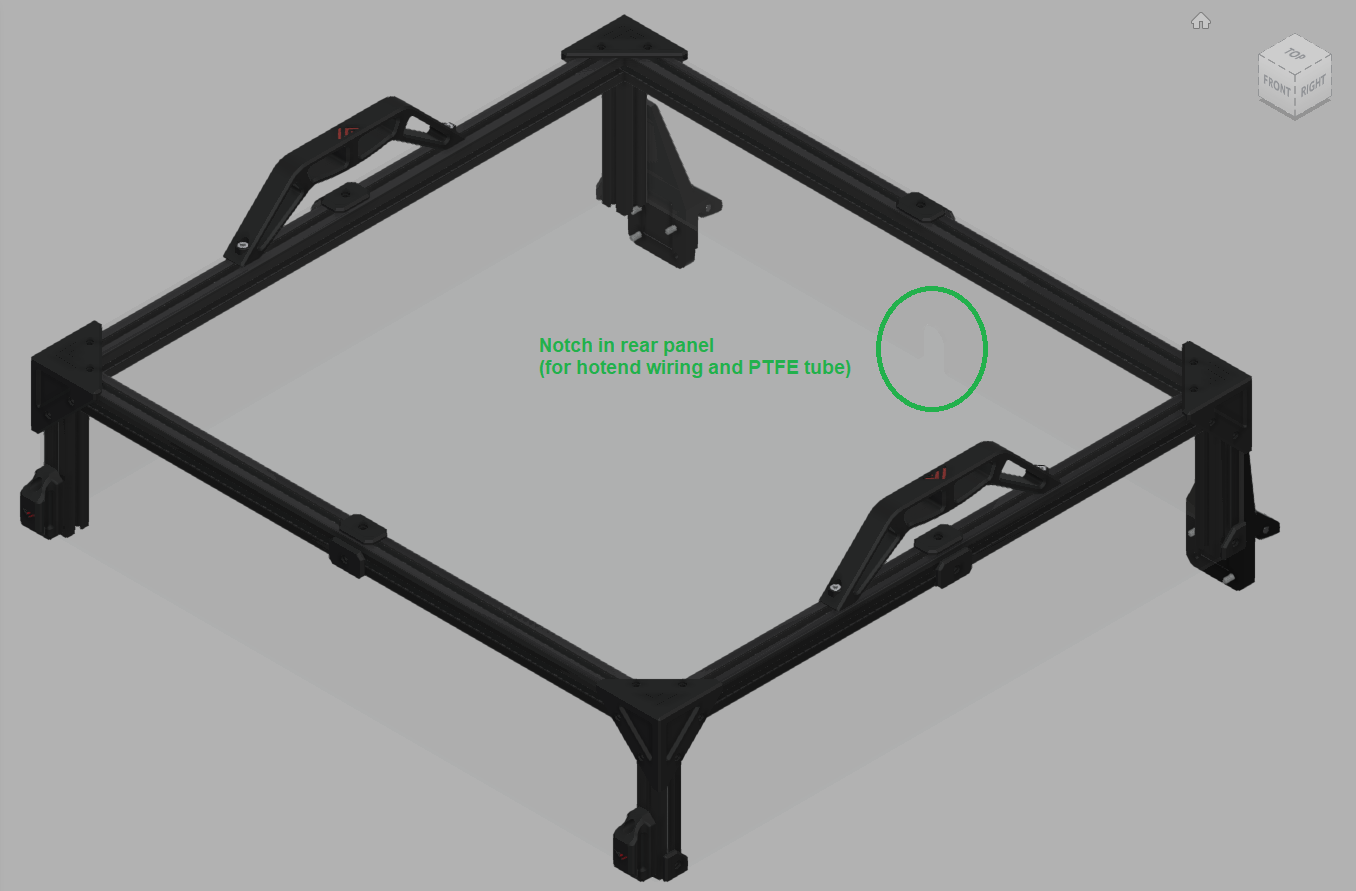
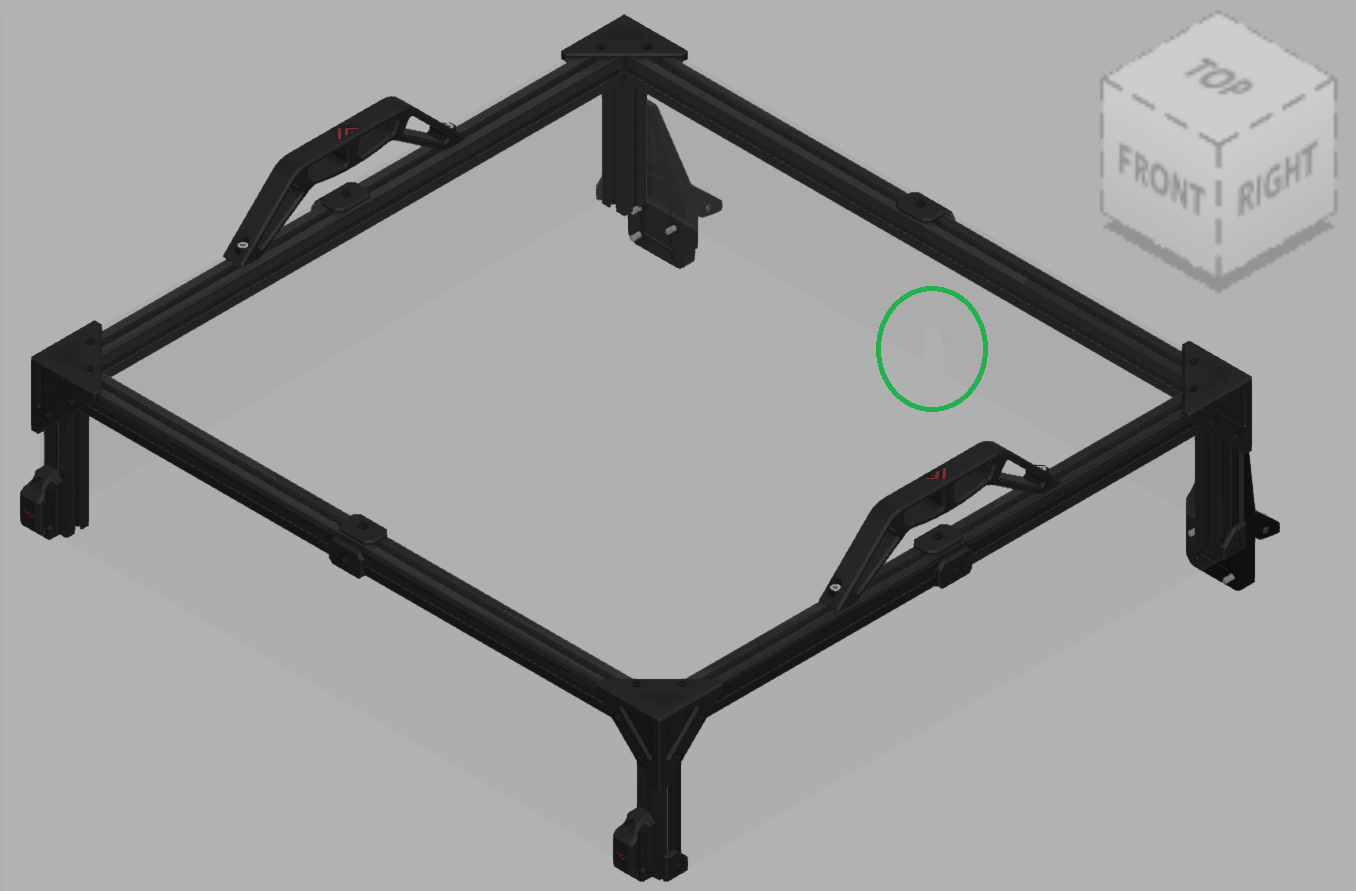
Enlarge orientation box remove green text Enlarged the orientation box top-left to enhance finding the notch Removed the green text in the image (in-image text discouraged) Add comment about the notch in the circle

diff --git a/docs/vz330_mellow/top_cover.md b/docs/vz330_mellow/top_cover.md
@@ -12,7 +12,9 @@ permalink: /vz330_mellow/top_cover
 
 ## Overview
 
-A finished top cover ('Top Hat') looks like this.
+A finished top cover ('Top Hat') looks like this.  
+The green circle marks a cutout in one of the acrylic panels meant for passing the umbilical cord from the hot end to the electronics bay. This will be located at the back of the printer and/or top-hat
+
 ![Frame](../assets/images/manual/vz330_mellow/top_cover/top/TopHat_Overview.png)
 
 ## Parts
